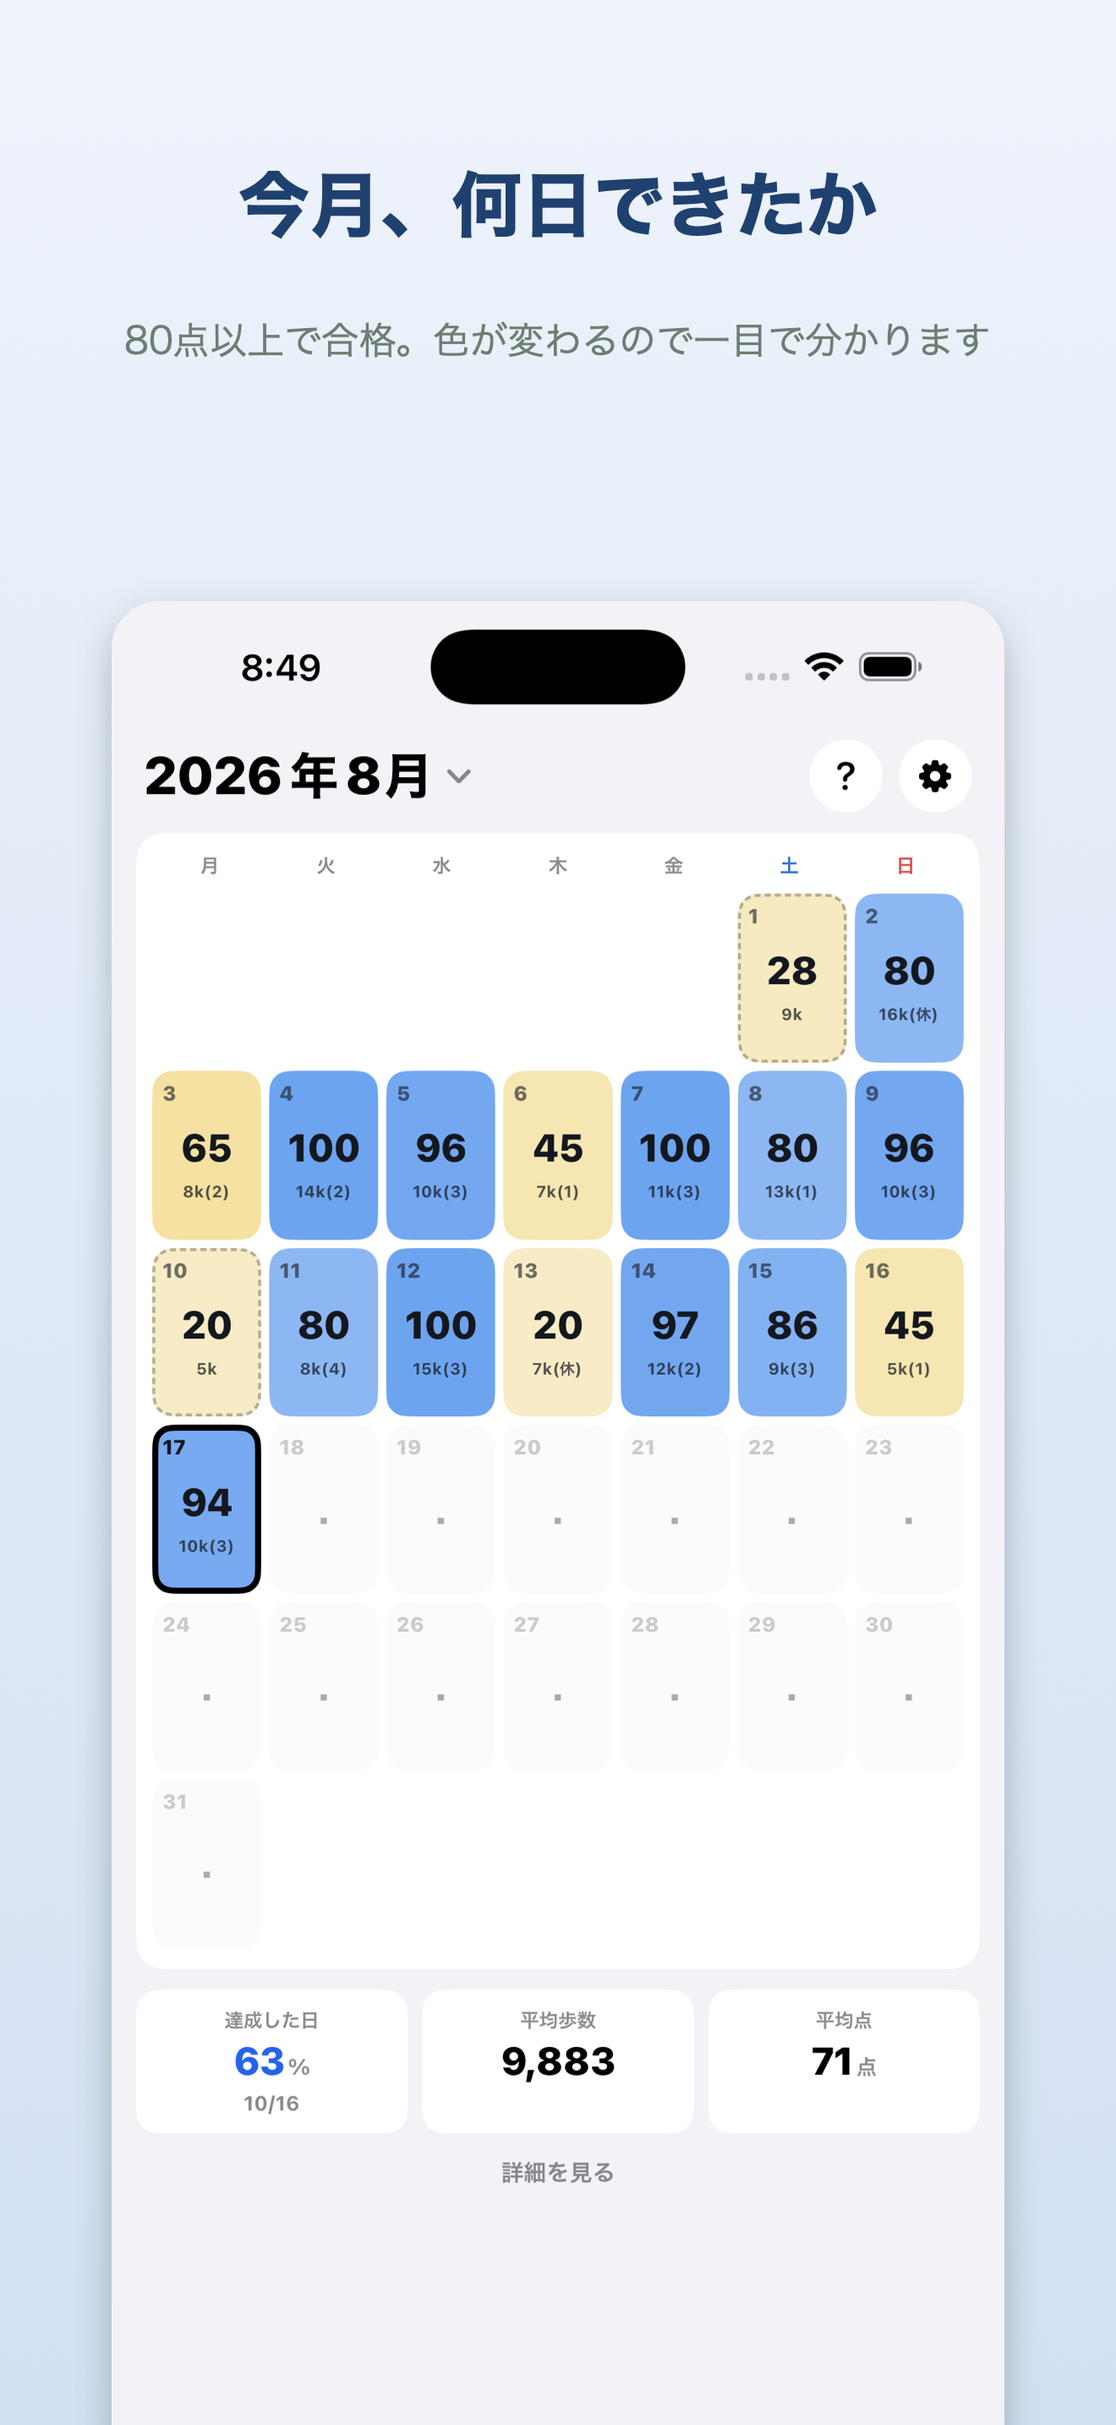
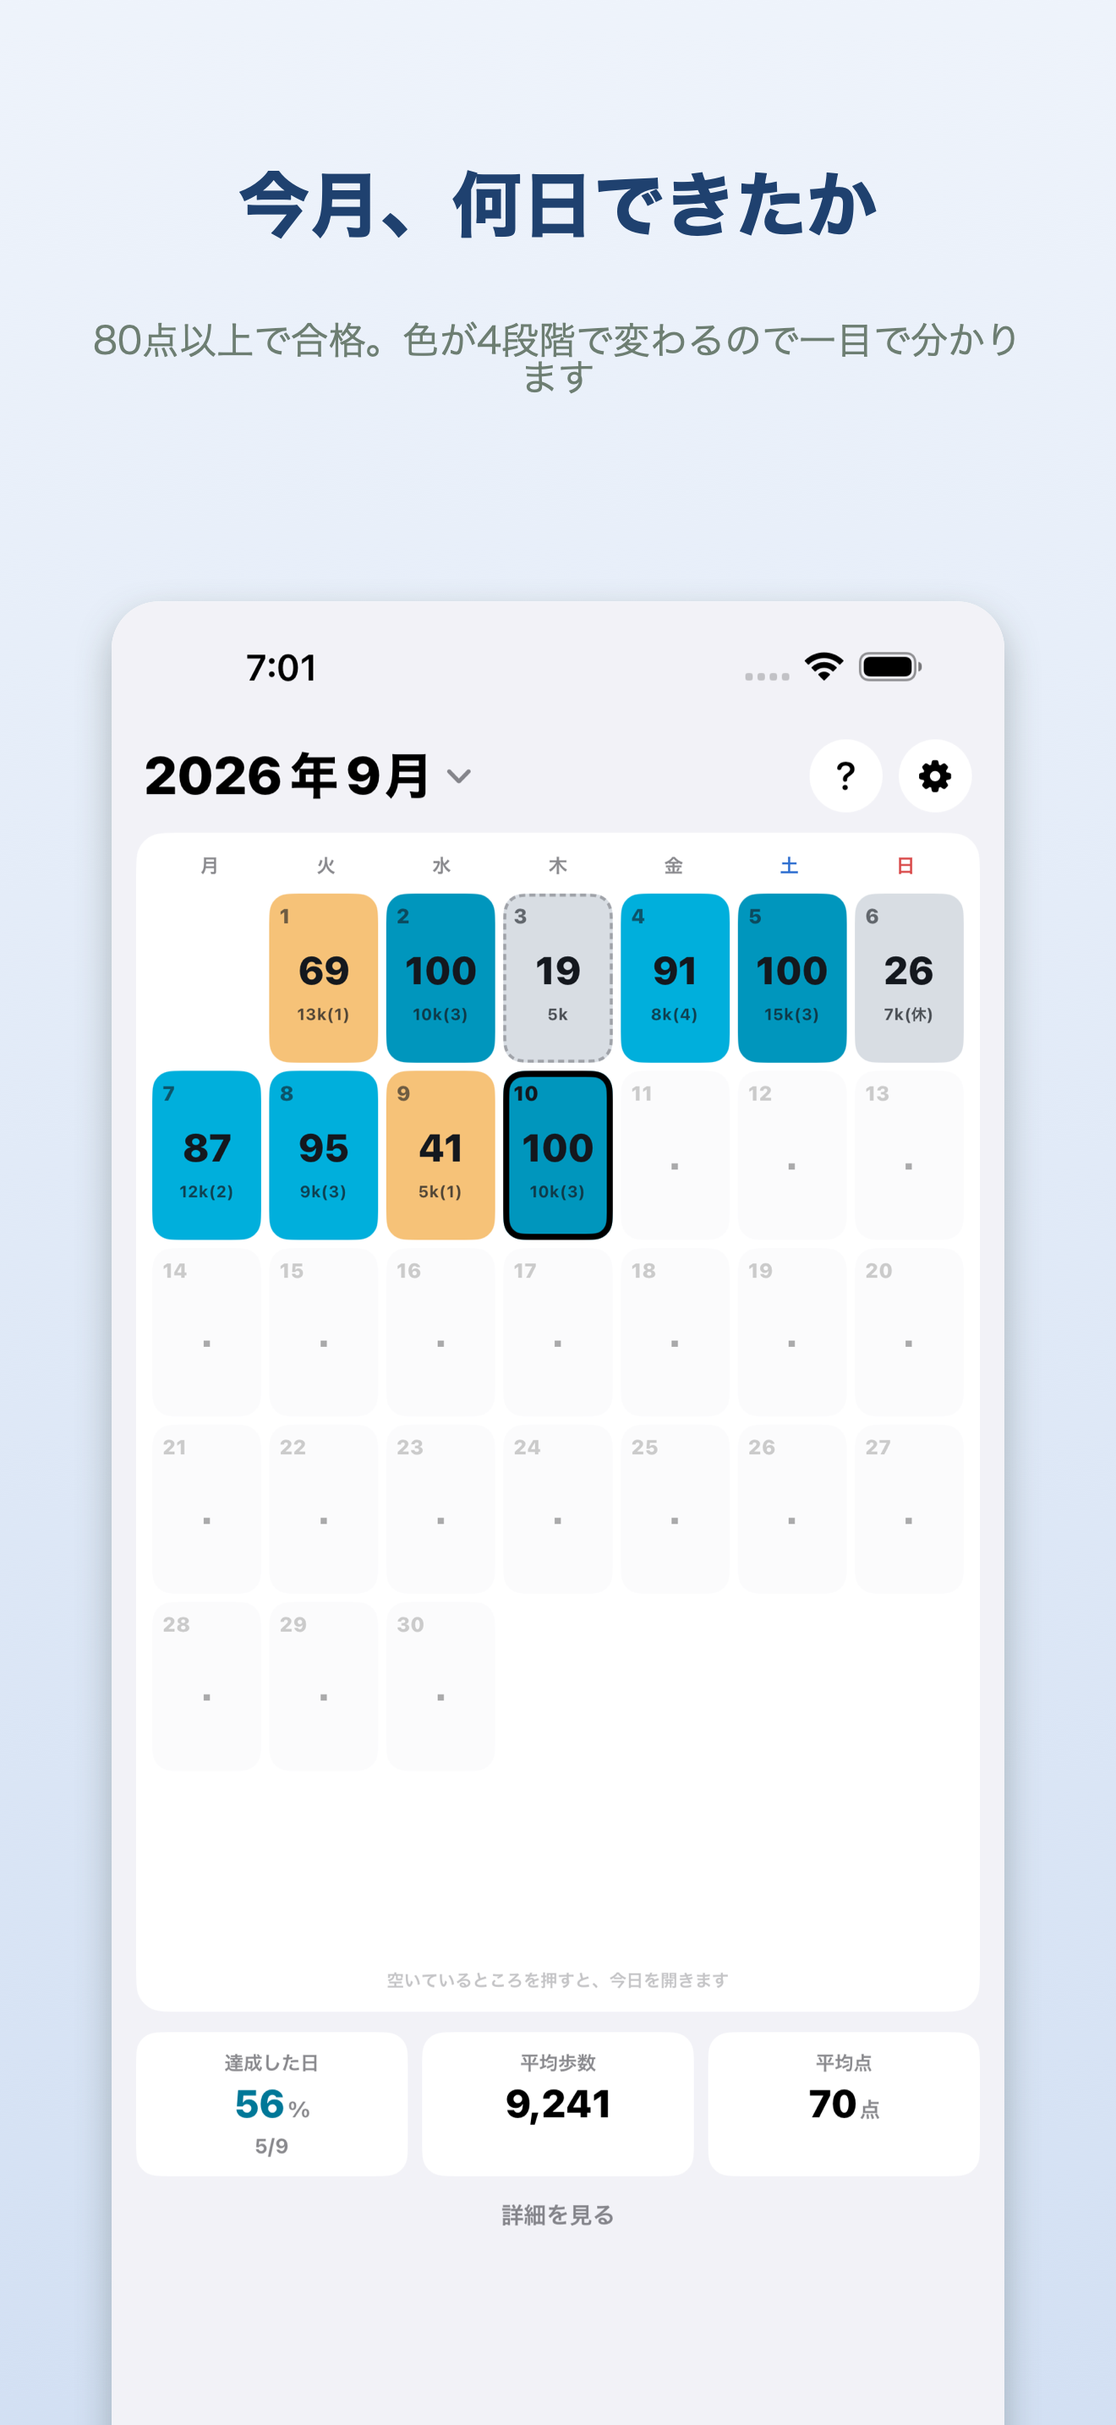
初回説明にウィジェットの回を足し、掲載画像を5枚に撮り直す
**入力シート**：休養日と完了のボタンを1.5倍の高さにした（46→68）。
毎日押すボタンなので、指を伸ばさずに届くほうがよい。

**初回説明**：ウィジェットの回を足して5ページにした。
絵は説明用に描いたものではなく、**実物と同じ View を出している。**
置いたときに違うものが出てくると、説明として役に立たない。
あわせて2つ直した。入力の回に「カレンダーの空いているところを押せば
今日が開く」を、80点の回に「色は点数で4段階」を足した。

**掲載画像**：5枚に撮り直した。ウィジェットの回を足し、
入力シートは新しい並び、設定は配色の選択が写るようにした。
ウィジェットの回は**2つ並べてある。** 1つだけだと枠が空いて見えるうえ、
点数で色が変わることが伝わらない。

撮影は 6.9インチ（1320×2868）のシミュレータで走る UIテストにした。
手近な端末で撮って引き伸ばすと縦横比がずれる（引き継ぎ書 4-32）。
ページが増えても撮り漏らさないよう、初回説明は「次へ」が消えるまで送る。

diff --git a/Yurutore/Yurutore/Strings.swift b/Yurutore/Yurutore/Strings.swift
@@ -269,18 +269,22 @@ enum L {
             .init(title: "Staying healthy, loosely",
                   body: "I wanted to move my body a reasonable amount. But apps that make you log weights and reps wore me out in about three days.\n\nWhat I wanted was something I could fill in within five seconds, and take in a whole month at a glance. It did not exist, so I made it for myself."),
             .init(title: "Only two things to enter",
-                  body: "Steps come in automatically from Health.\nAll you tap is which body parts you worked and other exercise. Each tap cycles ×1 → ×2 → ×3.\n\nNo weights, no reps, not even duration."),
+                  body: "Steps come in automatically from Health.\nAll you tap is which body parts you worked and other exercise. Each tap cycles ×1 → ×2 → ×3.\n\nTap any empty space on the calendar and today opens straight away. No weights, no reps, not even duration."),
             .init(title: "80 is a pass",
-                  body: "Steps and exercise are each worth 40 points when they reach their pass line, so a day that reaches both scores 80 and passes. The calendar colour changes, and at the end of the month you can see how many days you managed.\n\nWalking alone is not a pass, and neither is exercise alone. The point is to keep doing both."),
+                  body: "Steps and exercise are each worth 40 points when they reach their pass line, so a day that reaches both scores 80 and passes.\n\nThe calendar uses four colours by score, and the one at 80 stands out, so a glance tells you how the month went. Walking alone is not a pass, and neither is exercise alone. The point is to keep doing both."),
+            .init(title: "Put it on your Home Screen",
+                  body: "A small widget shows today's score, and how far steps and exercise still are from their pass lines. The rings fill up at 40 points each.\n\nYou can tell whether you are nearly there without opening the app. Long-press the Home Screen and add it from the plus button."),
             .init(title: "Set your pass line",
                   body: "The same target cannot suit someone who walks 5,000 steps and someone who walks 15,000. So decide yours now.\n\nIf you are not sure, leave it as it is. Everything here can be changed later in settings.")
         ] : [
             .init(title: "健康を、ざっくり続けるために",
                   body: "ある程度は体を動かしたい。でも重さも回数も記録するアプリは、正直3日で嫌になりました。\n\nほしかったのは、5秒で入れられて、1か月を一目で見渡せるもの。なかったので自分用に作りました。"),
             .init(title: "入れるのは2つだけ",
-                  body: "歩数はヘルスケアから勝手に入ります。\nあなたが押すのは動かした部位とその他の運動だけ。押すたびに ×1 → ×2 → ×3 と増えます。\n\n重さも回数も、時間すら入れません。"),
+                  body: "歩数はヘルスケアから勝手に入ります。\nあなたが押すのは、その他の運動と動かした部位だけ。押すたびに ×1 → ×2 → ×3 と増えます。\n\nカレンダーの空いているところを押せば、今日がすぐ開きます。重さも回数も、時間すら入れません。"),
             .init(title: "80点が合格",
-                  body: "歩数と運動には、それぞれ「合格ライン」があります。どちらも届くと40点＋40点で80点、その日は合格です。カレンダーの色が変わるので、月末に「今月は何日できたか」が一目で分かります。\n\n歩いただけ、運動しただけでは合格になりません。両方をぼちぼち続けるためです。"),
+                  body: "歩数と運動には、それぞれ「合格ライン」があります。どちらも届くと40点＋40点で80点、その日は合格です。\n\nカレンダーの色は点数で4段階。80点の境目ではっきり変わるので、月末に「今月は何日できたか」が一目で分かります。歩いただけ、運動しただけでは合格になりません。両方をぼちぼち続けるためです。"),
+            .init(title: "ホーム画面に置けます",
+                  body: "今日の点数と、歩数・運動が合格ラインまであとどれくらいかを、輪の欠けで出します。輪はどちらも40点でちょうど一周です。\n\nアプリを開かなくても、あと少しかどうかが分かります。ホーム画面を長押しして、＋から追加してください。"),
             .init(title: "合格ラインを決めましょう",
                   body: "普段5000歩の人と15000歩の人で、同じ基準はおかしいからです。ここで自分の線を決めてください。\n\n迷ったらそのままで大丈夫です。あとから設定でいくらでも変えられます。")
         ]

diff --git a/Yurutore/YurutoreUITests/StoreShots.swift b/Yurutore/YurutoreUITests/StoreShots.swift
@@ -1,0 +1,78 @@
+import XCTest
+
+/// App Store の掲載画像のもとを撮る。
+///
+/// **6.9インチ（1320×2868）のシミュレータで走らせること。**
+/// 手近な端末で撮って引き伸ばすと縦横比がわずかにずれる（引き継ぎ書 4-32）。
+final class StoreShots: XCTestCase {
+
+    private let outDir = "/tmp/yt-store-raw"
+
+    override func setUp() {
+        continueAfterFailure = true
+        try? FileManager.default.createDirectory(atPath: outDir,
+                                                 withIntermediateDirectories: true)
+    }
+
+    private func save(_ name: String) {
+        let png = XCUIScreen.main.screenshot().pngRepresentation
+        try? png.write(to: URL(fileURLWithPath: "\(outDir)/\(name).png"))
+    }
+
+    private func launch(_ env: [String: String] = [:]) -> XCUIApplication {
+        let app = XCUIApplication()
+        app.launchEnvironment["YURUTORE_DEMO"] = "1"
+        for (k, v) in env { app.launchEnvironment[k] = v }
+        app.launch()
+        XCTAssertTrue(app.wait(for: .runningForeground, timeout: 20))
+        dismissHealthPrompts(app)
+        sleep(1)
+        return app
+    }
+
+    @MainActor
+    func testCaptureAll() {
+        // ① 月カレンダー
+        var app = launch()
+        save("01-month")
+
+        // ② 入力シート。枠の空いているところを押すと今日が開く
+        let weekday = app.staticTexts["月"].firstMatch
+        XCTAssertTrue(weekday.waitForExistence(timeout: 10))
+        weekday.tap()
+        sleep(2)
+        save("02-input")
+        app.terminate()
+
+        // ③ ウィジェット
+        app = launch(["YURUTORE_WIDGET_PREVIEW": "store"])
+        sleep(1)
+        save("03-widget")
+        app.terminate()
+
+        // ④ 年表示
+        app = launch()
+        let title = app.buttons.matching(NSPredicate(format: "label CONTAINS %@", "年")).firstMatch
+        XCTAssertTrue(title.waitForExistence(timeout: 10), "月の見出しが無い")
+        title.tap()
+        sleep(2)
+        save("04-year")
+
+        // ⑤ 設定の配色
+        app.terminate()
+        app = launch()
+        let gear = app.buttons["gearshape.fill"].firstMatch
+        XCTAssertTrue(gear.waitForExistence(timeout: 10))
+        gear.tap()
+        sleep(2)
+        let band = app.staticTexts["〜39"]
+        for _ in 0..<10 where !band.exists || !band.isHittable {
+            app.swipeUp(velocity: .slow)
+            usleep(500_000)
+        }
+        // 4段階の見本だけでなく、選べるパターンも入る位置まで送る
+        app.swipeUp(velocity: .slow)
+        sleep(1)
+        save("05-settings")
+    }
+}

diff --git a/Yurutore/Yurutore/YurutoreApp.swift b/Yurutore/Yurutore/YurutoreApp.swift
@@ -11,8 +11,8 @@ struct YurutoreApp: App {
             // ウィジェットの見た目を確かめるための入口。
             // 拡張は単体で撮れないので、同じ View をアプリ側でも組み立てる。
             // 配布版には入らない（strings で確かめること・引き継ぎ書 4-7）
-            if ProcessInfo.processInfo.environment["YURUTORE_WIDGET_PREVIEW"] == "1" {
-                WidgetPreviewScreen()
+            if let mode = ProcessInfo.processInfo.environment["YURUTORE_WIDGET_PREVIEW"] {
+                WidgetPreviewScreen(storeShot: mode == "store")
             } else {
                 ContentView(store: store)
             }
@@ -26,6 +26,8 @@ struct YurutoreApp: App {
 #if DEBUG
 /// 2×2のウィジェットを、実寸に近い枠で並べて見る。
 struct WidgetPreviewScreen: View {
+    /// 掲載用に1つだけ大きく出すか、確認用に4通り並べるか
+    var storeShot = false
     @Environment(\.colorScheme) private var scheme
     private var dark: Bool { scheme == .dark }
 
@@ -50,6 +52,25 @@ struct WidgetPreviewScreen: View {
     }
 
     var body: some View {
+        if storeShot { single } else { list }
+    }
+
+    /// 掲載画像用。**2つ並べる。** 1つだけだと枠が空いて見えるうえ、
+    /// 点数で色が変わることが伝わらない。
+    private var single: some View {
+        VStack(spacing: 34) {
+            ForEach([0, 1], id: \.self) { i in
+                let item = samples[i].1
+                TodayWidgetView(snapshot: item)
+                    .frame(width: 290, height: 290)
+                    .background(item.background(dark: dark), in: .rect(cornerRadius: 42))
+            }
+        }
+        .frame(maxWidth: .infinity, maxHeight: .infinity)
+        .background(Color(.systemGroupedBackground))
+    }
+
+    private var list: some View {
         ScrollView {
             VStack(spacing: 18) {
                 ForEach(Array(samples.enumerated()), id: \.offset) { _, item in

diff --git a/store/MakeScreenshots.swift b/store/MakeScreenshots.swift
@@ -17,10 +17,11 @@ struct Shot {
 }
 
 let shots = [
-    Shot(file: "01-month.png",    title: "今月、何日できたか", subtitle: "80点以上で合格。色が変わるので一目で分かります"),
-    Shot(file: "02-input.png",    title: "押すのは部位だけ", subtitle: "歩数はヘルスケアから自動。重さも回数も入れません"),
-    Shot(file: "03-year.png",     title: "1年を、まるごと見渡す", subtitle: "続いていることが目に見えます"),
-    Shot(file: "04-settings.png", title: "自分の基準に合わせる", subtitle: "歩数の目安も運動の種類も、あとから変えられます"),
+    Shot(file: "01-month.png",    title: "今月、何日できたか", subtitle: "80点以上で合格。色が4段階で変わるので一目で分かります"),
+    Shot(file: "02-input.png",    title: "押すのは運動だけ", subtitle: "歩数はヘルスケアから自動。重さも回数も入れません"),
+    Shot(file: "03-widget.png",   title: "ホーム画面で、あと少しが分かる", subtitle: "輪はどちらも40点で一周。開かなくても今日が見えます"),
+    Shot(file: "04-year.png",     title: "1年を、まるごと見渡す", subtitle: "続いていることが目に見えます"),
+    Shot(file: "05-settings.png", title: "色は自分で決められる", subtitle: "8つのパターンから選ぶか、4色とも自分で決める"),
 ]
 
 let inputDir = URL(fileURLWithPath: CommandLine.arguments[1])

diff --git a/Yurutore/YurutoreUITests/ScoringScreenshots.swift b/Yurutore/YurutoreUITests/ScoringScreenshots.swift
@@ -21,24 +21,26 @@ final class ScoringScreenshots: XCTestCase {
         add(a)
     }
 
-    /// 初回説明の最後（合格ラインを決める画面）まで進んで撮る。
+    /// 初回説明を最後（合格ラインを決める画面）まで進んで、1枚ずつ撮る。
     /// 事前に `xcrun simctl uninstall` しておくこと。記録が残っていると出ない。
     func testOnboardingSetup() {
         let app = XCUIApplication()
         app.launch()
         XCTAssertTrue(app.wait(for: .runningForeground, timeout: 15))
-
-        let springboard = XCUIApplication(bundleIdentifier: "com.apple.springboard")
-        let deny = springboard.buttons["許可しない"]
-        if deny.waitForExistence(timeout: 6) { deny.tap() }
+        dismissHealthPrompts(app)
         sleep(1)
 
-        for i in 0..<3 {
-            save(app, "ob-\(i)")
-            app.buttons["次へ"].firstMatch.tap()
+        // ページ数が増えても撮り漏らさないよう、「次へ」が消えるまで送る
+        var i = 0
+        while i < 10 {
+            save(app, String(format: "ob-%02d", i))
+            let next = app.buttons["次へ"].firstMatch
+            guard next.exists && next.isHittable else { break }
+            next.tap()
             sleep(1)
+            i += 1
         }
-        save(app, "ob-3-setup")
+        XCTAssertTrue(i >= 4, "説明が想定より少ない（\(i + 1)枚）")
     }
 
     func testScoringTab() {

diff --git a/Yurutore/Yurutore/OnboardingView.swift b/Yurutore/Yurutore/OnboardingView.swift
@@ -187,10 +187,25 @@ struct OnboardingView: View {
                 Text(L.pts(lang)).font(.system(size: 22, weight: .heavy))
                     .foregroundStyle(store.accent(dark: dark))
             }
+        case 3:
+            // 説明の絵ではなく、**実物と同じもの**を出す。
+            // 置いたときに違うものが出てくると、説明として役に立たない
+            TodayWidgetView(snapshot: widgetSample)
+                .frame(width: 140, height: 140)
+                .background(widgetSample.background(dark: dark), in: .rect(cornerRadius: 20))
         default:
             Image(systemName: "gearshape.fill")
                 .font(.system(size: 56)).foregroundStyle(.secondary)
         }
+    }
+
+    /// 見本は「あと1種目」の日。いちばんよくある途中の状態を出す
+    private var widgetSample: WidgetSnapshot {
+        var log = DayLog(steps: 11_200)
+        log.parts[.chest] = .one
+        return WidgetSnapshot(date: store.today, log: log,
+                              activities: store.activities,
+                              settings: store.settings, palette: store.palette)
     }
 
     private func chip(_ name: String, _ v: String, _ bg: Color, _ fg: Color) -> some View {

diff --git a/Yurutore/Yurutore/DayEditor.swift b/Yurutore/Yurutore/DayEditor.swift
@@ -227,8 +227,8 @@ struct DayEditor: View {
         HStack(spacing: 9) {
             Button { store.toggleRest(current) } label: {
                 Text(L.restDay(lang))
-                    .font(.system(size: 15, weight: .heavy))
-                    .frame(maxWidth: .infinity).frame(height: 46)
+                    .font(.system(size: 17, weight: .heavy))
+                    .frame(maxWidth: .infinity).frame(height: 68)
                     .background(store.state(current) == .rest ? Color.secondary
                                                               : Color(.secondarySystemGroupedBackground),
                                 in: .rect(cornerRadius: 13))
@@ -238,8 +238,8 @@ struct DayEditor: View {
             .buttonStyle(.plain)
             Button { dismiss() } label: {
                 Text(L.done(lang))
-                    .font(.system(size: 15, weight: .heavy))
-                    .frame(maxWidth: .infinity).frame(height: 46)
+                    .font(.system(size: 17, weight: .heavy))
+                    .frame(maxWidth: .infinity).frame(height: 68)
                     .background(Color.rgb(18, 160, 107), in: .rect(cornerRadius: 13))
                     .foregroundStyle(.white)
             }
